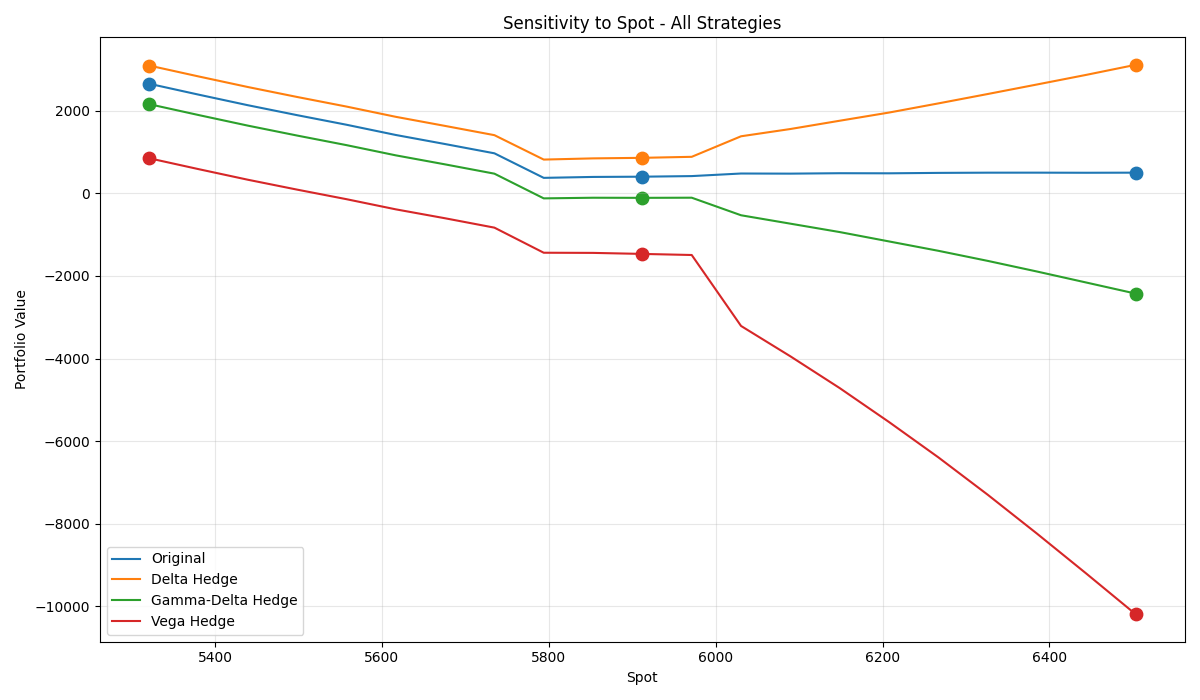
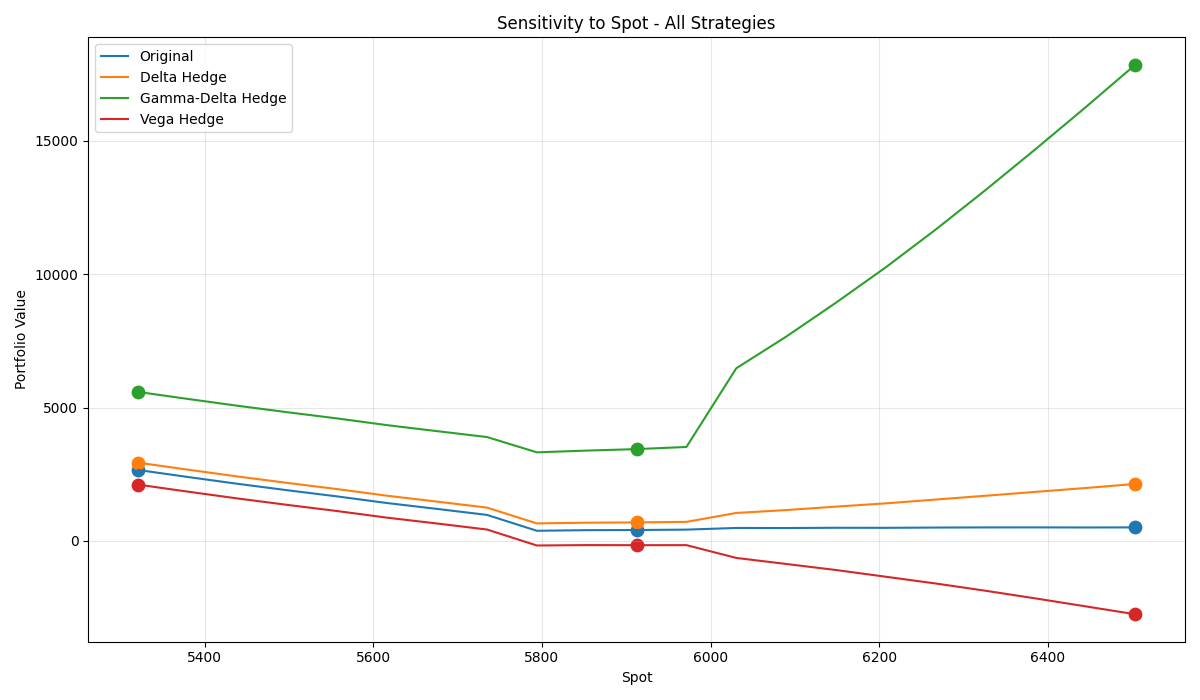
test

diff --git a/app.py b/app.py
@@ -89,6 +89,10 @@ st.sidebar.markdown('''
 </div>
 ''', unsafe_allow_html=True)
 
+# Set the correct visualization directory
+vis_dir = os.path.join(os.path.dirname(os.path.dirname(__file__)), 'visualizations')
+os.makedirs(vis_dir, exist_ok=True)
+
 # Implement logic for each portfolio model
 if menu == "Portfolio Analysis - Black-Scholes":
     st.write("Black-Scholes portfolio model selected.")
@@ -907,6 +911,7 @@ if menu == "Sensitivity Analysis":
         st.write("Monte Carlo model selected.")
         n_sim_main = st.number_input("Number of simulations for P&L and VaR/ES", value=1000, min_value=1000, step=1000, help="Number of scenarios for P&L and VaR/ES simulation.")
         n_sim_greeks = st.number_input("Number of simulations for Greeks", value=1000, min_value=1000, step=1000, help="Number of scenarios for Greeks calculation.")
+        n_sim_sens = st.number_input("Number of simulations for Sensitivities", value=1000, min_value=1000, step=1000, help="Number of scenarios for sensitivity analysis.")
         st.write("Note: The following input uses the Longstaff-Schwartz method.")
         N_steps = st.number_input("Number of steps (For short maturities, use fewer steps; for long maturities, use more steps)", value=100, min_value=1, step=1, help="Discretization steps for Monte Carlo model.")
     elif model == "Black-Scholes":
@@ -945,7 +950,18 @@ if menu == "Sensitivity Analysis":
                     st.write(pd.read_csv(os.path.join(bsa.VIS_DIR, 'sensitivity_r_all_bs.csv')))
                     st.write(pd.read_csv(os.path.join(bsa.VIS_DIR, 'sensitivity_vol_all_bs.csv')))
                 elif model == "Monte Carlo":
-                    st.write("Monte Carlo model selected.")
+                    vis_dir = os.path.join(os.path.dirname(__file__), 'visualizations')
+                    os.makedirs(vis_dir, exist_ok=True)
+                    mca.run_sensitivity_analysis_mc(portfolio, N_steps, n_sim_greeks, vis_dir, horizon)
+                    st.success("Sensitivity analysis completed. Check the visualizations directory for results.")
+                    # Display graphs and numerical tables
+                    st.image(os.path.join(vis_dir, 'sensitivity_spot_mc.png'))
+                    st.image(os.path.join(vis_dir, 'sensitivity_r_mc.png'))
+                    st.image(os.path.join(vis_dir, 'sensitivity_vol_mc.png'))
+                    st.write("Numerical tables:")
+                    st.write(pd.read_csv(os.path.join(vis_dir, 'sensitivity_spot_mc.csv')))
+                    st.write(pd.read_csv(os.path.join(vis_dir, 'sensitivity_r_mc.csv')))
+                    st.write(pd.read_csv(os.path.join(vis_dir, 'sensitivity_vol_mc.csv')))
                 elif model == "Binomial":
                     st.write("Binomial model selected.")
             except Exception as e:

diff --git a/option_pricing/monte_carlo/mc_portfolio_analysis.py b/option_pricing/monte_carlo/mc_portfolio_analysis.py
@@ -161,7 +161,7 @@ def run_sensitivity_analysis_mc(portfolio, N_steps, n_sim_sens, vis_dir, horizon
     
     # Constants
     N_STEPS = N_steps  # Clarify this is steps for MC simulation
-    n_sim_greeks = 10000
+    n_sim_greeks = n_sim_sens  # Use the same number of simulations for greeks as for sensitivity
     FIG_SIZE = (12, 7)
     MARKER_SIZE = 80
     ANNOTATION_OFFSET = (0, 10)
@@ -172,6 +172,32 @@ def run_sensitivity_analysis_mc(portfolio, N_steps, n_sim_sens, vis_dir, horizon
     
     # Initialize hedge strategies
     base_portfolio = portfolio[0]
+    hedge_opt_mc = {
+        'type': 'call',
+        'style': 'european',
+        'S': portfolio[0]['S'],
+        'K': portfolio[0]['K'],
+        'T': portfolio[0]['T'],
+        'r': portfolio[0]['r'],
+        'qty': 0,
+        'market_price': portfolio[0]['market_price'],
+    }
+    greeks_hedge_mc = option_greeks_mc(hedge_opt_mc, n_sim=n_sim_greeks, n_steps=N_STEPS)
+    
+    # Define 'greeks_hedge_vega_mc' before its usage
+    hedge_opt_vega_mc = {
+        'type': 'call',
+        'style': 'european',
+        'S': portfolio[0]['S'],
+        'K': portfolio[0]['K'],
+        'T': portfolio[0]['T'],
+        'r': portfolio[0]['r'],
+        'qty': 0,
+        'market_price': portfolio[0]['market_price'],
+    }
+    greeks_hedge_vega_mc = option_greeks_mc(hedge_opt_vega_mc, n_sim=n_sim_greeks, n_steps=N_STEPS)
+    
+    # Now use 'greeks_hedge_vega_mc' in the code
     hedge_strategies = [
         ('Original', copy.deepcopy(portfolio)),
         ('Delta Hedge', copy.deepcopy(portfolio) + [{
